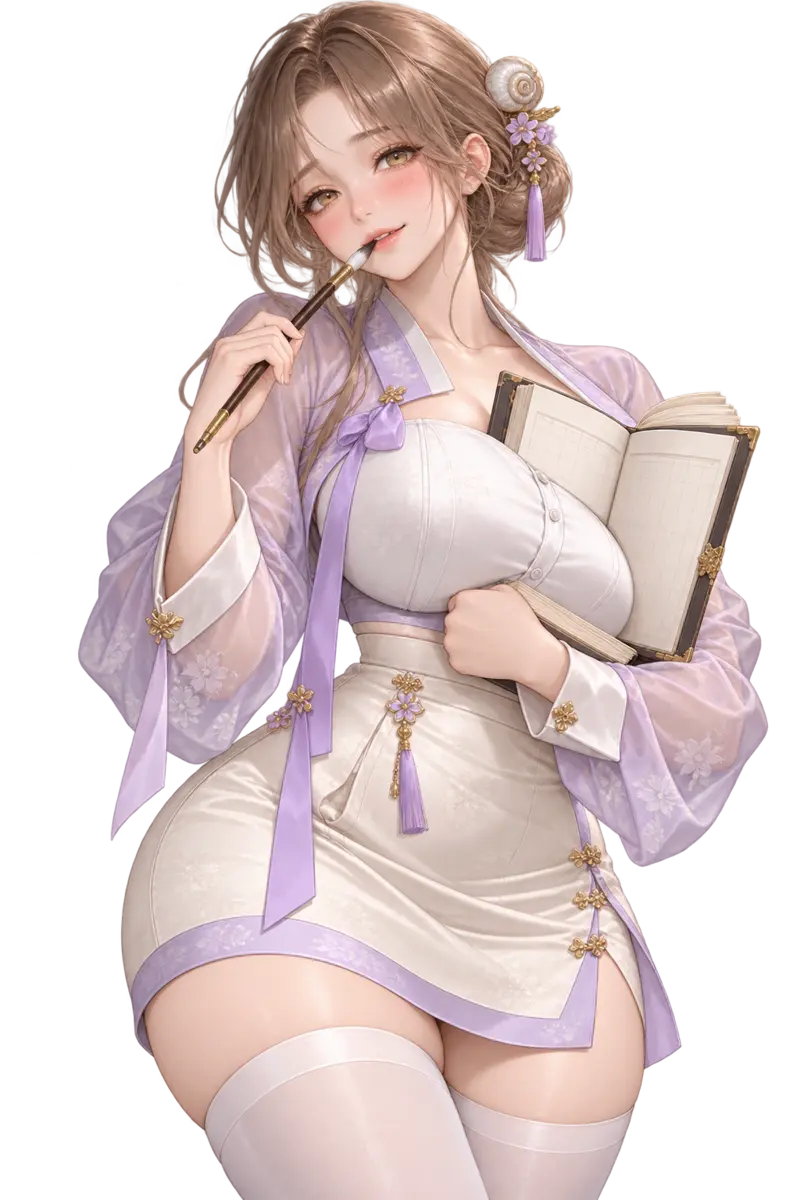
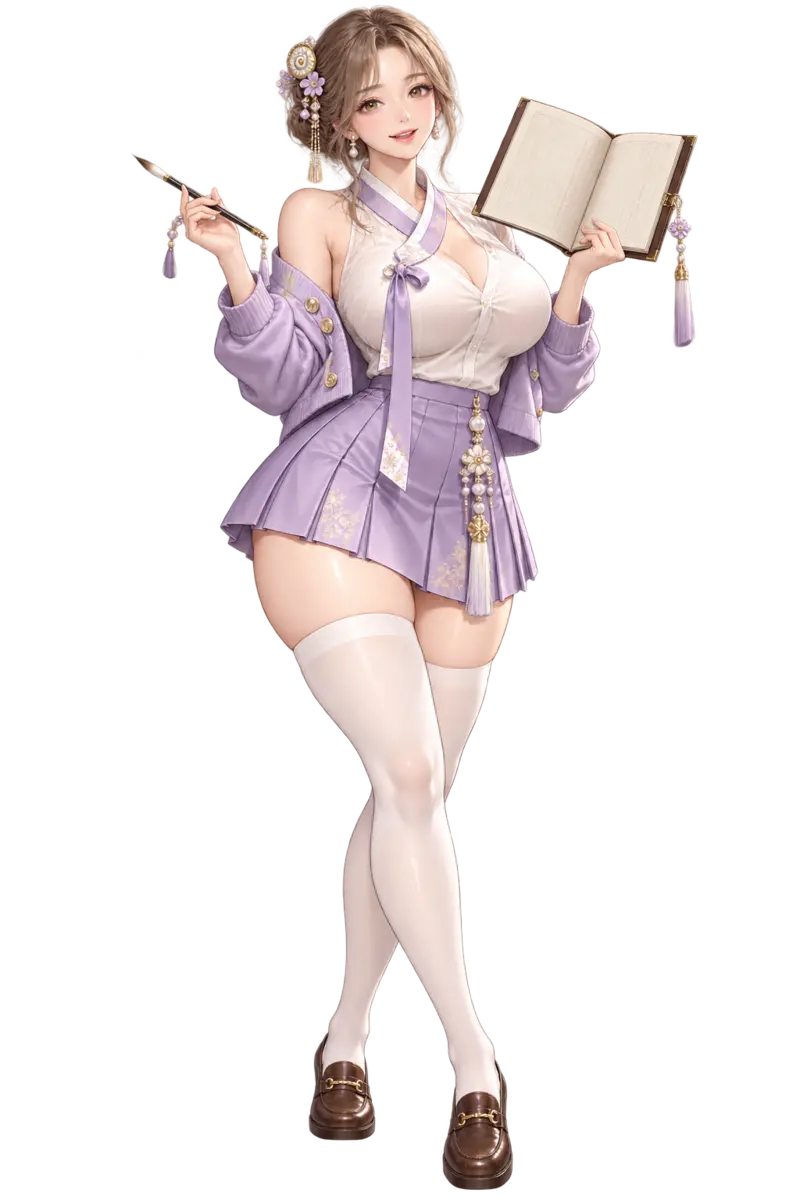
sample: 니케 스탠디 같은 첫 화면과 현대 패션 퓨전 식객
- 백설(의자에 다리 꼬고 앉기)·무영(제복, 가리키며 지휘)·소담(비서풍 미니스커트)을 전신으로 다시 그림
- 첫 화면 배경: 모눈 바탕, 식객 대표 색 사선 띠, 크게 흐린 얼굴, 왼쪽 아래 이름표(themes.ts)
- 그림 프롬프트·디자인 기준 문서를 현대 패션 + 조선 요소 기준으로 고침

Claude-Session: https://claude.ai/code/session_01AG3ixGBdGKPAAzXvjh6L4F

diff --git a/src/ui/HomeView.tsx b/src/ui/HomeView.tsx
@@ -1,4 +1,4 @@
-import { useEffect, useState } from 'react';
+import { useEffect, useState, type CSSProperties } from 'react';
 import { createPortal } from 'react-dom';
 import { activeCombos, assign, feast, feastCost, feastFame, hasAptitude, nextRank, ownedYokai, power, promote, promoteCheck, slotsPerWorkplace, statsOf, useWish, workplaceOf, workplaceRate, } from '../core/engine';
 import { fmt, fmtRate } from '../core/format';
@@ -15,6 +15,7 @@ import { buzz, pushToast } from './toast';
 import type { ModalRequest } from './App';
 import { guideStep } from '../core/guide';
 import { bondContent } from '../data/bond-content';
+import { themeOf } from '../data/themes';
 import { EPISODES } from '../data/story';
 import { nextEpisode, lockReason } from '../core/story';
 interface Props {
@@ -37,6 +38,7 @@ export function HomeView({ view, now, open, go, onHeroine }: Props) {
     const ep = nextEpisode(view, EPISODES), locked = ep ? lockReason(view, ep) : null;
     const hint = nextHint(view, now);
     const talks = bondContent(def.id).talks;
+    const theme = themeOf(def.id);
     const poke = () => { setTaps(n => n + 1); setLine(talks.length ? talks[taps % talks.length].line : null); };
     const resting = ownedYokai(view).some(({ def: d }) => !workplaceOf(view, d.id));
     const doWish = () => { const r = act(useWish); if (r.ok)
@@ -47,7 +49,10 @@ export function HomeView({ view, now, open, go, onHeroine }: Props) {
         setBanquet(false);
     } };
     return <div className="view home">
-  <Art className="home-bg" src={ART.bg('palace')} alt="" fallback={<div className="home-bg art-placeholder"/>}/>
+  <div className="stand-bg" style={{ '--theme': theme } as CSSProperties}>
+   <div className="stand-face" style={{ backgroundImage: `url(${ART.full(def.id)})` }}/>
+   <i className="band b1"/><i className="band b2"/>
+  </div>
   <div className="home-menu">
    <button className="menu-icon" data-guide="story" onClick={() => open({ kind: 'story', episode: ep && !locked ? ep.id : undefined })}><LineIcon name="scroll" size={24}/><span>이야기</span>{ep && !locked && <i className="badge">!</i>}</button>
    <button className="menu-icon" data-guide="ttuk" disabled={!view.wish.pending && view.wish.charges <= 0} onClick={doWish}><LineIcon name="flag" size={24}/><span>정무</span>{(view.wish.pending || view.wish.charges > 0) && <i className="badge">{view.wish.pending ? '!' : view.wish.charges}</i>}</button>
@@ -56,9 +61,11 @@ export function HomeView({ view, now, open, go, onHeroine }: Props) {
   </div>
   <div className="heroine">
    <button className="heroine-art" aria-label={`${def.name}에게 말 걸기`} onClick={poke}>
+    <img className="heroine-shadow" src={ART.full(def.id)} alt="" aria-hidden="true"/>
     <Art className="heroine-img" src={ART.full(def.id)} alt={def.name} fallback={<div className="portrait-fallback">{def.name}</div>}/>
    </button>
   </div>
+  <div className="nameplate"><small style={{ background: theme }}>{def.kind}</small><b>{def.name}</b></div>
   {line ? <div className="say" role="status"><b>{def.name}</b><span>{line}</span><button onClick={() => onHeroine(def.id)}>대화하기 ›</button></div> : !step && <button className="quest" onClick={() => go(hint.target)}><b>할 일</b><span>{hint.text}</span><em>가기 ›</em></button>}
   {work && createPortal(<WorkSheet view={view} open={open} picking={picking} setPicking={setPicking} onClose={() => { setWork(false); setPicking(null); }}/>, document.body)}
   {banquet && createPortal(<><div className="dim" onClick={() => setBanquet(false)}/><div className="modal" role="dialog" aria-label="연회"><div className="title">연회 열기</div><div className="bubble">곡식 {fmt(feastCost(view.rank))} · 명성 +{fmt(feastFame(view))}<br />모든 식객의 호감도가 올라갑니다.</div><div className="actions"><button className="btn hong" disabled={view.res.grain < feastCost(view.rank)} onClick={doFeast}>연회 열기</button><button className="btn" onClick={() => setBanquet(false)}>닫기</button></div></div></>, document.body)}

diff --git a/src/styles.css b/src/styles.css
@@ -610,8 +610,14 @@ body:has(.guide) .sheet { max-height: calc(100dvh - 150px); }
 .say button { color: var(--seal); font-weight: 700; font-size: 14px; white-space: nowrap; }
 .home .say { position: static; flex: none; margin: 6px 12px 10px; }
 
-/* 무릎 위 구도: 캐릭터는 메뉴 아래부터 화면 끝까지 크게, 잘린 아래쪽은 흐리게. 할 일 칸은 그 위에 얹는다. */
-.home .home-menu { position: relative; z-index: 2; }
-.home .heroine { position: absolute; left: 0; right: 0; top: 70px; bottom: 0; padding: 0; z-index: 1; }
-.home .heroine-art img { -webkit-mask-image: linear-gradient(to bottom, #000 86%, transparent 100%); mask-image: linear-gradient(to bottom, #000 86%, transparent 100%); }
-.home .quest, .home .say { position: absolute; left: 0; right: 0; bottom: 0; margin: 0 12px 10px; z-index: 2; }
+/* 첫 화면 배경: 니케 스탠디처럼 모눈 바탕 + 대표 색 사선 띠 + 크게 흐린 얼굴, 왼쪽 아래 이름표 */
+.home::after { display: none; }
+.stand-bg { position: absolute; inset: 0; z-index: -1; overflow: hidden; background-color: #f7f3f1;
+  background-image: linear-gradient(rgba(60,40,40,.05) 1px, transparent 1px), linear-gradient(90deg, rgba(60,40,40,.05) 1px, transparent 1px); background-size: 22px 22px; }
+.stand-face { position: absolute; inset: 0; background-repeat: no-repeat; background-size: 260% auto; background-position: 52% 3%; opacity: .14; filter: grayscale(.3); }
+.stand-bg .band { position: absolute; background: var(--theme); transform: skewX(-20deg); }
+.stand-bg .b1 { left: 8%; top: 12%; width: 46%; height: 100%; opacity: .16; }
+.stand-bg .b2 { left: 60%; top: 34%; width: 7%; height: 80%; opacity: .5; }
+.nameplate { position: absolute; left: 14px; bottom: 76px; z-index: 2; display: flex; flex-direction: column; align-items: flex-start; gap: 4px; transform: skewX(-8deg); pointer-events: none; }
+.nameplate small { color: #fff; font: 700 12px var(--sans); padding: 2px 8px; }
+.nameplate b { background: #1f1b22; color: #fff; font: 700 24px var(--title); padding: 3px 14px; letter-spacing: 3px; }

diff --git a/src/data/art.ts b/src/data/art.ts
@@ -16,7 +16,7 @@ const HEROINE =
   'Alluring but tasteful and non-explicit: no nudity, no underwear visible, no low camera angle looking up the skirt.';
 
 const FRAME = {
-  full: `${HEROINE} Knee-up shot (head to just above the knees) at eye level, filling the frame, her signature pose. Isolated on a fully transparent background (PNG with alpha), no scenery, no floor, no shadow.`,
+  full: `${HEROINE} Full body from head to feet at eye level, her signature pose, feet firmly on the ground (or seated if stated). Modern fashionable outfit mixed with Korean Joseon accents (jeogori collars, ribbon ties, norigae tassels), not a traditional robe. Isolated on a fully transparent background (PNG with alpha), no scenery, no floor, no shadow.`,
   card: `${HEROINE} Three-quarter body shot, dynamic pose, with a scenic background that suits her story.`,
   cg: `${HEROINE} Wide romantic story illustration (event CG) of her alone, seen from the point of view of the viewer who is with her (the viewer is not drawn). Warm emotional lighting and a detailed background.`,
   bg: 'Background art with no people. Tall vertical composition for a phone screen, the lower third fairly open.',

diff --git a/src/data/themes.ts b/src/data/themes.ts
@@ -1,0 +1,12 @@
+// 식객 대표 색. 첫 화면 배경(사선 띠·이름표)에 쓴다. 없으면 특기 색을 쓴다.
+import { YOKAI_BY_ID } from './yokai';
+
+const THEME: Record<string, string> = {
+  baekseol: '#d23c4b',
+  muyeong: '#1f8a8a',
+  sodam: '#9a7fd6',
+};
+
+const BY_STAT = { might: '#e2553f', wit: '#e08a1e', politics: '#4f9a3a', charm: '#d0577a' } as const;
+
+export const themeOf = (id: string): string => THEME[id] ?? BY_STAT[YOKAI_BY_ID[id]?.specialty ?? 'charm'];

diff --git a/docs/CHARACTER_GUIDE.md b/docs/CHARACTER_GUIDE.md
@@ -22,7 +22,7 @@
 3. **검은 실루엣 시험.** 까맣게 칠해도 누구인지 알아볼 수 있어야 한다. 머리 모양, 옷 윤곽, 소품 셋 중 둘은 남과 달라야 한다.
 4. **대표 색 2~3개.** 다른 식객과 주된 색이 겹치지 않게 한다.
 5. **체형.** 모두 성인 여성이고 큰 가슴, 가는 허리, 넓은 골반, 굵은 허벅지의 글래머 체형이다(니케 기준). 다리가 너무 가늘면 안 된다.
-6. **구도와 채색(니케 카드 참고).** 대표 그림은 무릎 위까지 가깝게 잡아 화면을 채운다. 시점은 눈높이로 하고, 아래에서 치마 속을 올려다보는 각도는 쓰지 않는다. 명암은 부드럽게 번지게, 피부는 윤기 있게, 볼은 붉게 한다. 표정은 장난스럽거나 유혹적으로 성격을 드러낸다.
+6. **구도와 채색(니케 참고).** 대표 그림은 전신(앉은 자세 포함)으로, 두 발이 바닥이나 의자에 제대로 닿게 한다. 옷은 현대 패션(제복, 미니스커트, 재킷, 스타킹, 부츠)에 저고리 깃·리본·노리개 같은 조선 요소를 섞는다. 시점은 눈높이로 하고, 아래에서 치마 속을 올려다보는 각도는 쓰지 않는다. 명암은 부드럽게 번지게, 피부는 윤기 있게, 볼은 붉게 한다. 표정은 장난스럽거나 유혹적으로 성격을 드러낸다.
 7. **꾸밈은 적게.** 금장식, 겹겹 장신구, 꽃잎, 반짝이 효과는 넣지 않는다. 눈길은 얼굴, 몸선, 소품에 모은다.
 8. **노출 수위.** 매력적이되 노골적이지 않게 한다. 맨살이 드러나도 속옷이나 맨몸은 보이지 않는다.
 
@@ -30,6 +30,6 @@
 
 | 식객 | 출신·역할 | 옷 | 대표 자세 | 색 |
 | --- | --- | --- | --- | --- |
-| 백설 | 구미호, 매력 | 어깨 드러낸 상아색 저고리, 허벅지 중간까지 오는 진홍 치마, 흰 스타킹 | 부채로 입술을 가리고 한 손은 허리에, 고개를 기울이고 놀리듯 웃음 | 흰색 · 진홍 |
-| 무영 | 도깨비, 무관 | 소매 걷은 짧은 검정 무관 재킷, 몸에 붙는 상의, 짧은 바지와 검정 스타킹, 허벅지 끈 | 거대한 쇠방망이를 어깨에 메고 한 손은 허리에, 정면을 보며 여유로운 미소 | 검정 · 청록 · 청동 |
-| 소담 | 우렁각시, 살림꾼 | 비치는 연보라 저고리, 몸에 붙는 흰 블라우스, 허벅지 중간까지 오는 상아색 치마 | 장부를 가슴에 안고 붓끝을 입술에 대며 수줍게 웃음 | 연보라 · 상아 · 진주 |
+| 백설 | 구미호, 매력 | 상아색 어깨 트임 상의(저고리 깃·진홍 리본), 진홍 미니스커트, 흰 스타킹, 진홍 하이힐, 노리개 | 높은 의자에 다리 꼬고 앉아 부채로 입가를 가림 | 흰색 · 진홍 |
+| 무영 | 도깨비, 무관 | 저고리 깃 검정 제복 원피스, 어깨에 걸친 청록 안감 장교 코트, 장교 모자, 검정 스타킹, 긴 부츠 | 다리 벌리고 서서 한 손으로 앞을 가리키고 다른 손은 쇠방망이 위에 | 검정 · 청록 · 청동 |
+| 소담 | 우렁각시, 살림꾼 | 저고리 깃 블라우스, 한쪽 어깨로 흘러내린 연보라 카디건, 주름 미니스커트, 니삭스, 로퍼, 진주 노리개 | 장부를 얼굴 옆에 펴 들고 붓을 흔들며 밝게 웃음 | 연보라 · 상아 · 진주 |
